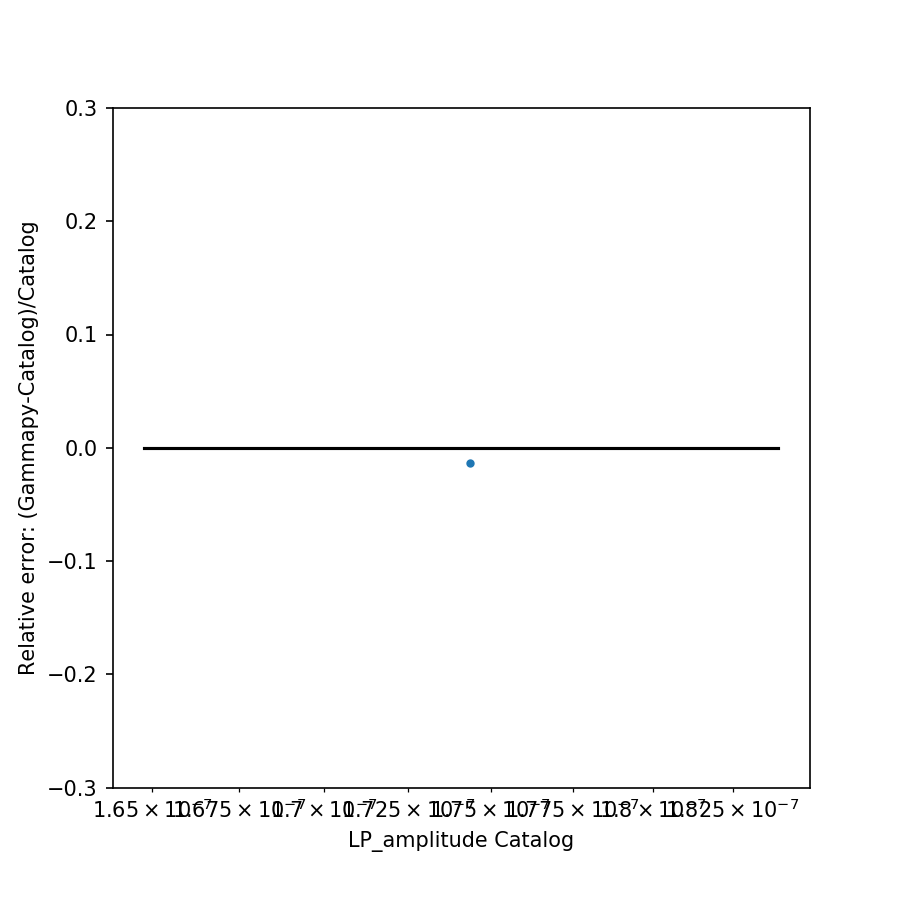
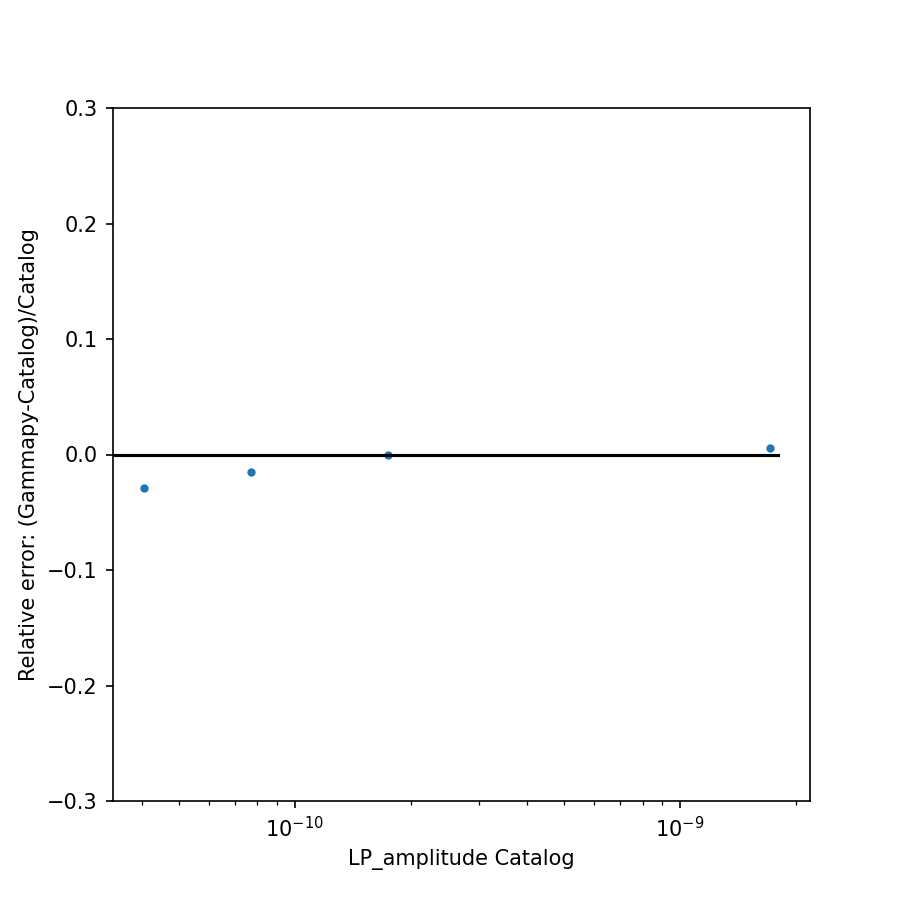
fix after PR#3340
few future deprecating warming  from matplotlib remain

diff --git a/validation/fermi-3fhl/make.py b/validation/fermi-3fhl/make.py
@@ -39,6 +39,7 @@ from gammapy.utils.scripts import make_path
 log = logging.getLogger(__name__)
 BASE_PATH = Path(__file__).parent
 
+
 def iscompatible(x, y, dx, dy):
     x, y, dx, dy = np.array(x), np.array(y), np.array(dx), np.array(dy)
     return abs(y - x) < dx + dy
@@ -71,15 +72,17 @@ class Validation_3FHL:
         )
 
         # energies
-        self.El_flux = [10.0, 20.0, 50.0, 150.0, 500.0, 2000.0]*u.GeV
-        El_fit = 10 ** np.arange(1, 3.31, 0.1)*u.GeV
+        self.El_flux = [10.0, 20.0, 50.0, 150.0, 500.0, 2000.0] * u.GeV
+        El_fit = 10 ** np.arange(1, 3.31, 0.1) * u.GeV
         self.energy_axis = MapAxis.from_edges(
             El_fit, name="energy", unit="GeV", interp="log"
         )
 
         # psf margin for mask
-        psf = PSFMap.read("$GAMMAPY_DATA/fermi_3fhl/fermi_3fhl_psf_gc.fits.gz", format="gtpsf")
-        psf_r99max = np.max(psf.containment_radius(fraction=0.99,  energy_true=El_fit))
+        psf = PSFMap.read(
+            "$GAMMAPY_DATA/fermi_3fhl/fermi_3fhl_psf_gc.fits.gz", format="gtpsf"
+        )
+        psf_r99max = np.max(psf.containment_radius(fraction=0.99, energy_true=El_fit))
         self.psf_margin = np.ceil(psf_r99max.value * 10) / 10.0
 
         # iso norm=0.92 see paper appendix A
@@ -186,8 +189,14 @@ class Validation_3FHL:
         )
         exposure_hpx.unit = "cm2 s"
 
-        #psf
-        psf_map = PSFMap.read("$GAMMAPY_DATA/fermi_3fhl/fermi_3fhl_psf_gc.fits.gz", format="gtpsf")
+        # psf
+        psf_map = PSFMap.read(
+            "$GAMMAPY_DATA/fermi_3fhl/fermi_3fhl_psf_gc.fits.gz", format="gtpsf"
+        )
+        # reduce size of the PSF
+        axis = psf_map.psf_map.geom.axes["rad"].center.to_value(u.deg)
+        indmax = np.argmin(np.abs(self.psf_margin - axis))
+        psf_map = psf_map.slice_by_idx(slices={"rad": slice(0, indmax)})
 
         # iem
         iem_filepath = BASE_PATH / "data" / "gll_iem_v06_extrapolated.fits"
@@ -228,9 +237,10 @@ class Validation_3FHL:
         data = exposure_hpx.interp_by_coord(coords)
         exposure = WcsNDMap(geom, data, unit=exposure_hpx.unit, dtype=float)
 
-        
         # Energy Dispersion
-        edisp = EDispKernelMap.from_diagonal_response(energy_axis_true=axis, energy_axis=self.energy_axis)
+        edisp = EDispKernelMap.from_diagonal_response(
+            energy_axis_true=axis, energy_axis=self.energy_axis
+        )
 
         # fit mask
         if coords["lon"].min() < 90 * u.deg and coords["lon"].max() > 270 * u.deg:
@@ -248,12 +258,17 @@ class Validation_3FHL:
 
         # IEM
         eval_iem = MapEvaluator(
-            model=model_iem, exposure=exposure, psf=psf_map.get_psf_kernel(geom), edisp=edisp.get_edisp_kernel()
+            model=model_iem,
+            exposure=exposure,
+            psf=psf_map.get_psf_kernel(geom),
+            edisp=edisp.get_edisp_kernel(),
         )
         bkg_iem = eval_iem.compute_npred()
 
         # ISO
-        eval_iso = MapEvaluator(model=self.model_iso, exposure=exposure, edisp=edisp.get_edisp_kernel())
+        eval_iso = MapEvaluator(
+            model=self.model_iso, exposure=exposure, edisp=edisp.get_edisp_kernel()
+        )
         bkg_iso = eval_iso.compute_npred()
 
         # merge iem and iso, only one local normalization is fitted
@@ -291,7 +306,7 @@ class Validation_3FHL:
                     model.spectral_model.parameters["alpha"].max = 10.0
 
                 FHL3_roi.append(model)
-        model_total = Models(FHL3_roi+[background_model])
+        model_total = Models(FHL3_roi + [background_model])
         dataset.models = model_total
 
         cat_stat = dataset.stat_sum()
@@ -324,7 +339,10 @@ class Validation_3FHL:
                 ):
                     print(model.name)
                     flux_points = FluxPointsEstimator(
-                        energy_edges=self.El_flux, source=model.name, n_sigma_ul=2
+                        energy_edges=self.El_flux,
+                        source=model.name,
+                        n_sigma_ul=2,
+                        selection_optional=["ul"],
                     ).run(datasets=datasets)
                     filename = self.resdir / f"{model.name}_flux_points.fits"
                     flux_points.write(filename, overwrite=True)
@@ -362,8 +380,9 @@ class Validation_3FHL:
                         self.resdir / f"{model.name}_flux_points.fits"
                     )
                     res_fp.table["is_ul"] = res_fp.table["ts"] < 1.0
-                    cat_fp = self.FHL3[model.name].flux_points.to_sed_type("dnde")
-
+                    cat_fp = self.FHL3[model.name].flux_points.to_sed_type(
+                        "dnde", model=cat_spec
+                    )
                     self.update_spec_diags(
                         dataset, model, cat_spec, res_spec, cat_fp, res_fp
                     )
@@ -373,9 +392,7 @@ class Validation_3FHL:
     def plot_maps(self, dataset):
         plt.figure(figsize=(6, 6), dpi=150)
         dataset.plot_residuals_spatial(
-            method="diff/sqrt(model)",
-            smooth_kernel="gauss",
-            smooth_radius=0.1 * u.deg,
+            method="diff/sqrt(model)", smooth_kernel="gauss", smooth_radius=0.1 * u.deg,
         )
         plt.title("Residuals: (Nobs-Npred)/sqrt(Npred)")
         plt.savefig(self.resdir / f"resi_{dataset.name}.png", dpi=150)
@@ -681,15 +698,15 @@ def cli(selection, processes, fit):
     # TODO: move this code to the extrapolation functions
     # Use MapAxis and Gammapy for energy axis functionality
     # Don't call `np.log` or `10 **` for this!
-    
+
     El_extra = 10 ** np.arange(3.8, 6.51, 0.1)  # MeV
     logEc_extra = (np.log10(El_extra)[1:] + np.log10(El_extra)[:-1]) / 2.0
     extrapolate_iso_model(logEc_extra)
     extrapolate_iem_model(logEc_extra)
-    
+
     validation = Validation_3FHL(selection=selection, savefig=True)
     validation.run_all(run_fit=fit, get_diags=True, processes=processes)
-    
+
 
 if __name__ == "__main__":
     cli()

diff --git a/validation/fermi-3fhl/results/results.md b/validation/fermi-3fhl/results/results.md
@@ -2,105 +2,133 @@
  Vela region 
 
 
- ![](/Users/qremy/Work/GitHub/gammapy-benchmarks/validation/fermi-3fhl/results /resi_3FHL_ROI_num135.png)
+ ![](results /resi_3FHL_ROI_num135.png)
 
- ![](/Users/qremy/Work/GitHub/gammapy-benchmarks/validation/fermi-3fhl/results /npred_3FHL_ROI_num135.png)
+ ![](results /npred_3FHL_ROI_num135.png)
 
- ![](/Users/qremy/Work/GitHub/gammapy-benchmarks/validation/fermi-3fhl/results /counts_3FHL_ROI_num135.png)
+ ![](results /counts_3FHL_ROI_num135.png)
 
- ![](/Users/qremy/Work/GitHub/gammapy-benchmarks/validation/fermi-3fhl/results /spec_3FHL_J0833.1-4511e_ROI_num135.png)
+ ![](results /spec_3FHL_J0833.1-4511e_ROI_num135.png)
 
- ![](/Users/qremy/Work/GitHub/gammapy-benchmarks/validation/fermi-3fhl/results /spec_3FHL_J0835.3-4510_ROI_num135.png)
+ ![](results /spec_3FHL_J0835.3-4510_ROI_num135.png)
 
- ![](/Users/qremy/Work/GitHub/gammapy-benchmarks/validation/fermi-3fhl/results /spec_3FHL_J0851.9-4620e_ROI_num135.png)
+ ![](results /spec_3FHL_J0851.9-4620e_ROI_num135.png)
 
  All following values are given in percent 
 
 
-- ['Optimization terminated successfully.'] -
+- ['Optimization terminated successfully.'
+ 'Optimization terminated successfully.'
+ 'Optimization terminated successfully.'
+ 'Optimization terminated successfully.'
+ 'Optimization failed. Estimated distance to minimum too large.'
+ 'Optimization terminated successfully.'
+ 'Optimization terminated successfully.'
+ 'Optimization terminated successfully.'] -
 
-['Optimization terminated successfully.']
-Optimization terminated successfully. 100.0   
-['Optimization terminated successfully.']
+['Optimization terminated successfully.'
+ 'Optimization terminated successfully.'
+ 'Optimization terminated successfully.'
+ 'Optimization terminated successfully.'
+ 'Optimization failed. Estimated distance to minimum too large.'
+ 'Optimization terminated successfully.'
+ 'Optimization terminated successfully.'
+ 'Optimization terminated successfully.']
+Optimization terminated successfully. 87.5   
+['Optimization terminated successfully.'
+ 'Optimization terminated successfully.'
+ 'Optimization terminated successfully.'
+ 'Optimization terminated successfully.'
+ 'Optimization failed. Estimated distance to minimum too large.'
+ 'Optimization terminated successfully.'
+ 'Optimization terminated successfully.'
+ 'Optimization terminated successfully.']
 Optimization failed. 0.0   
-['Optimization terminated successfully.']
-Optimization failed. Estimated distance to minimum too large. 0.0   
+['Optimization terminated successfully.'
+ 'Optimization terminated successfully.'
+ 'Optimization terminated successfully.'
+ 'Optimization terminated successfully.'
+ 'Optimization failed. Estimated distance to minimum too large.'
+ 'Optimization terminated successfully.'
+ 'Optimization terminated successfully.'
+ 'Optimization terminated successfully.']
+Optimization failed. Estimated distance to minimum too large. 12.5   
 
- ![](/Users/qremy/Work/GitHub/gammapy-benchmarks/validation/fermi-3fhl/results/Cash_stat_corr.png)
+ ![](results/Cash_stat_corr.png)
 
 flux_points   
-Rel. err. <10%: 0.0   
-Rel. err. <30%: 0.0   
-Rel. err. mean: -2499674538.1894064   
+Rel. err. <10%: 76.36363636363636   
+Rel. err. <30%: 92.72727272727273   
+Rel. err. mean: -330985.4498417394   
 
- ![](/Users/qremy/Work/GitHub/gammapy-benchmarks/validation/fermi-3fhl/results/flux_points_errel.png)
+ ![](results/flux_points_errel.png)
 
 PL_index   
-dx/x <10% :  100.0   
-dx/x <30% :  100.0   
+dx/x <10% :  70.0   
+dx/x <30% :  90.0   
 
- ![](/Users/qremy/Work/GitHub/gammapy-benchmarks/validation/fermi-3fhl/results/PL_index_corr.png)
+ ![](results/PL_index_corr.png)
 Rel. err. <10%: 100.0   
 Rel. err. <30%: 100.0   
-Rel. err. mean: -0.3509324472382963   
+Rel. err. mean: 0.0815159801088456   
 compatibility: 100.0   
 
- ![](/Users/qremy/Work/GitHub/gammapy-benchmarks/validation/fermi-3fhl/results/PL_index_errel.png)
+ ![](results/PL_index_errel.png)
 
- ![](/Users/qremy/Work/GitHub/gammapy-benchmarks/validation/fermi-3fhl/results/PL_index_error_errel.png)
+ ![](results/PL_index_error_errel.png)
 
 PL_amplitude   
-dx/x <10% :  100.0   
-dx/x <30% :  100.0   
+dx/x <10% :  40.0   
+dx/x <30% :  90.0   
 
- ![](/Users/qremy/Work/GitHub/gammapy-benchmarks/validation/fermi-3fhl/results/PL_amplitude_corr.png)
+ ![](results/PL_amplitude_corr.png)
 Rel. err. <10%: 100.0   
 Rel. err. <30%: 100.0   
-Rel. err. mean: 1.8775543911001187   
+Rel. err. mean: -0.868161102423944   
 compatibility: 100.0   
 
- ![](/Users/qremy/Work/GitHub/gammapy-benchmarks/validation/fermi-3fhl/results/PL_amplitude_errel.png)
+ ![](results/PL_amplitude_errel.png)
 
- ![](/Users/qremy/Work/GitHub/gammapy-benchmarks/validation/fermi-3fhl/results/PL_amplitude_error_errel.png)
+ ![](results/PL_amplitude_error_errel.png)
 
 LP_alpha   
-dx/x <10% :  100.0   
-dx/x <30% :  100.0   
+dx/x <10% :  75.0   
+dx/x <30% :  75.0   
 
- ![](/Users/qremy/Work/GitHub/gammapy-benchmarks/validation/fermi-3fhl/results/LP_alpha_corr.png)
+ ![](results/LP_alpha_corr.png)
 Rel. err. <10%: 100.0   
 Rel. err. <30%: 100.0   
-Rel. err. mean: -1.4885736158733456   
+Rel. err. mean: 0.07079260184960978   
 compatibility: 100.0   
 
- ![](/Users/qremy/Work/GitHub/gammapy-benchmarks/validation/fermi-3fhl/results/LP_alpha_errel.png)
+ ![](results/LP_alpha_errel.png)
 
- ![](/Users/qremy/Work/GitHub/gammapy-benchmarks/validation/fermi-3fhl/results/LP_alpha_error_errel.png)
+ ![](results/LP_alpha_error_errel.png)
 
 LP_beta   
-dx/x <10% :  100.0   
-dx/x <30% :  100.0   
+dx/x <10% :  25.0   
+dx/x <30% :  50.0   
 
- ![](/Users/qremy/Work/GitHub/gammapy-benchmarks/validation/fermi-3fhl/results/LP_beta_corr.png)
+ ![](results/LP_beta_corr.png)
 Rel. err. <10%: 100.0   
 Rel. err. <30%: 100.0   
-Rel. err. mean: -6.672712365215398   
+Rel. err. mean: -1.3117916465944806   
 compatibility: 100.0   
 
- ![](/Users/qremy/Work/GitHub/gammapy-benchmarks/validation/fermi-3fhl/results/LP_beta_errel.png)
+ ![](results/LP_beta_errel.png)
 
- ![](/Users/qremy/Work/GitHub/gammapy-benchmarks/validation/fermi-3fhl/results/LP_beta_error_errel.png)
+ ![](results/LP_beta_error_errel.png)
 
 LP_amplitude   
-dx/x <10% :  100.0   
-dx/x <30% :  100.0   
+dx/x <10% :  75.0   
+dx/x <30% :  75.0   
 
- ![](/Users/qremy/Work/GitHub/gammapy-benchmarks/validation/fermi-3fhl/results/LP_amplitude_corr.png)
+ ![](results/LP_amplitude_corr.png)
 Rel. err. <10%: 100.0   
 Rel. err. <30%: 100.0   
-Rel. err. mean: -1.3608444781768216   
+Rel. err. mean: -0.9657324198608171   
 compatibility: 100.0   
 
- ![](/Users/qremy/Work/GitHub/gammapy-benchmarks/validation/fermi-3fhl/results/LP_amplitude_errel.png)
+ ![](results/LP_amplitude_errel.png)
 
- ![](/Users/qremy/Work/GitHub/gammapy-benchmarks/validation/fermi-3fhl/results/LP_amplitude_error_errel.png)
+ ![](results/LP_amplitude_error_errel.png)
